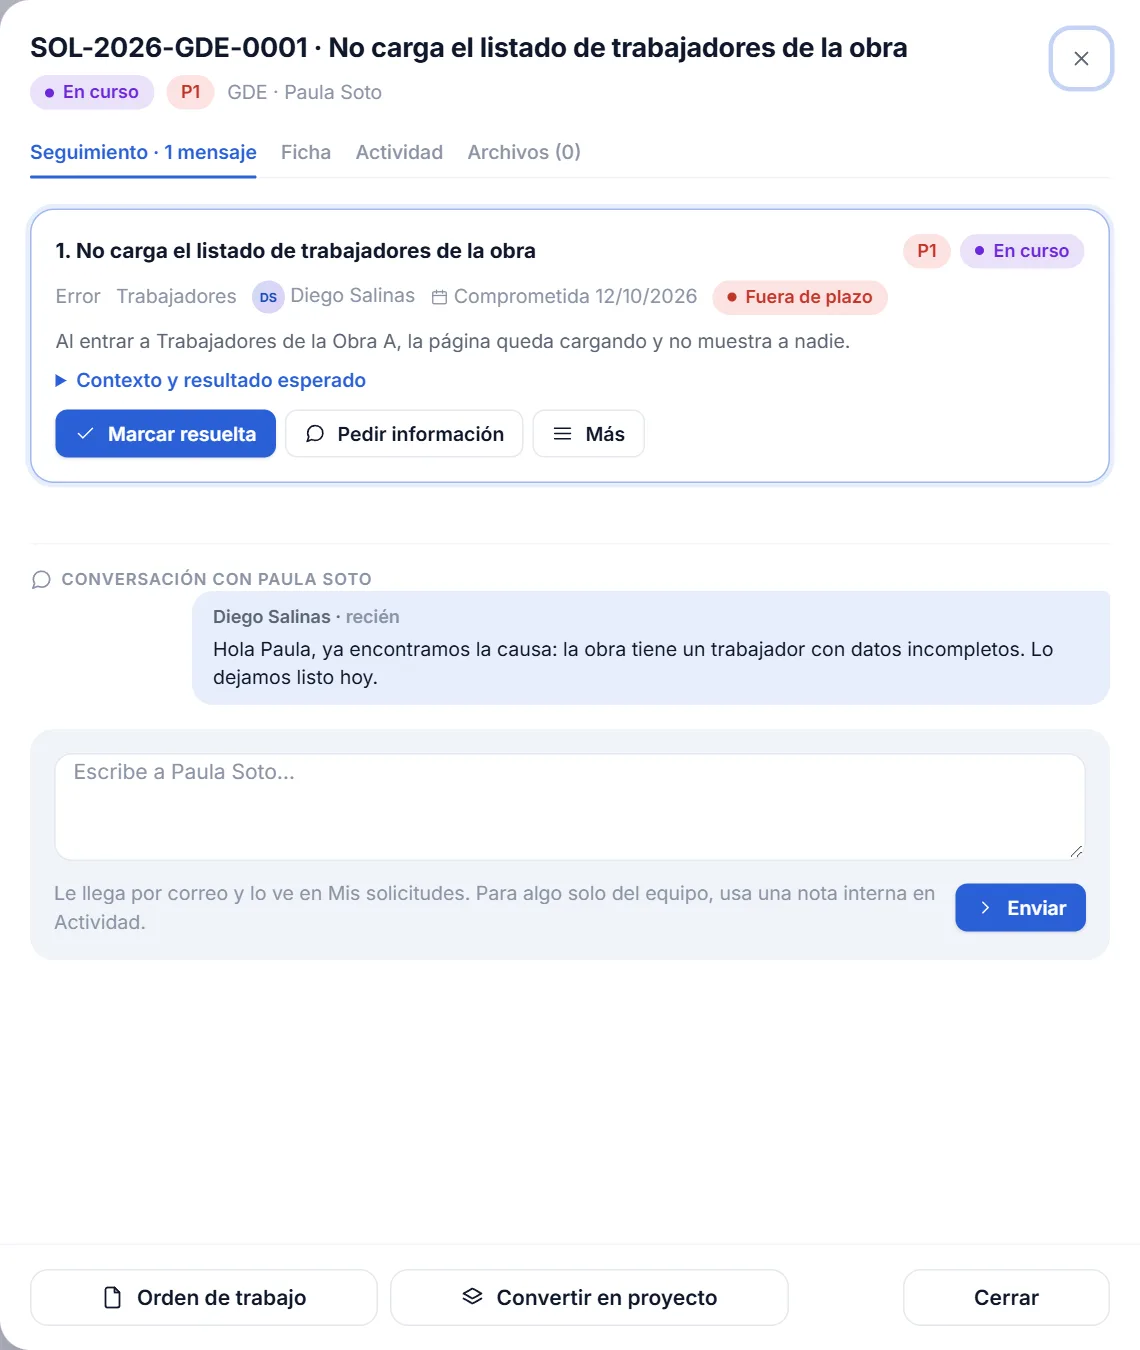
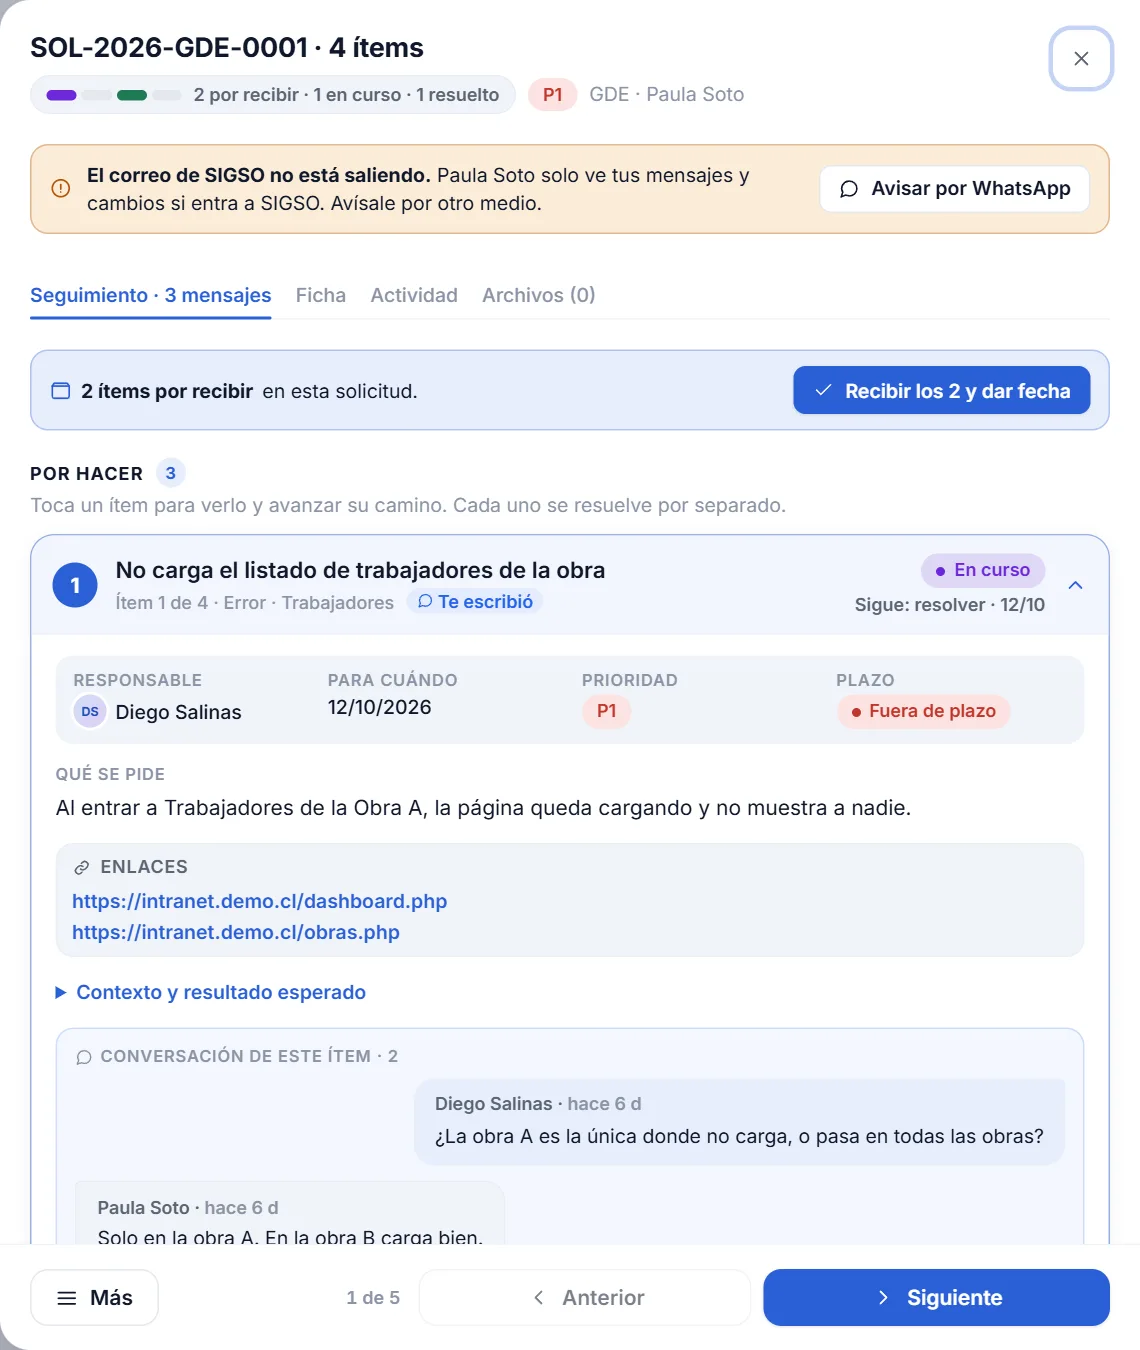
docs(manuales): Bandeja y Mis solicitudes con la tabla por solicitud, el panel por ítem y Siguiente
Capturas nuevas de la empresa demo (tabla desplegada, solicitud abierta,
conversación y camino del ítem, Mis solicitudes con varios ítems).

diff --git a/frontend/manuales/solicitudes.js b/frontend/manuales/solicitudes.js
@@ -77,7 +77,12 @@
             consejo: ['Mejor que un enlace de Drive: el equipo lo abre sin tener que pedirte acceso.'] },
           { titulo: 'Abre una solicitud', img: 'detalle',
             texto: ['Toca una solicitud. Se abre a la derecha con todo su detalle.'],
-            marcas: [{ n: 1, t: 'Los pasos: nueva, en curso, resuelta y cerrada; resaltado, dónde va.' }, { n: 2, t: 'Ítems, conversación con el equipo, historial y archivos.' }, { n: 3, t: 'Quién te atiende, de qué área y servicio, y la fecha comprometida.' }, { n: 4, t: '[[Corregir]] (mientras nadie la empiece) y [[Ya se resolvió por fuera]].' }] }
+            marcas: [{ n: 1, t: 'Los pasos: nueva, en curso, resuelta y cerrada; resaltado, dónde va.' }, { n: 2, t: 'Ítems, conversación con el equipo, historial y archivos.' }, { n: 3, t: 'Quién te atiende, de qué área y servicio, y la fecha comprometida.' }, { n: 4, t: '[[Corregir]] (mientras nadie la empiece) y [[Ya se resolvió por fuera]].' }] },
+          { titulo: 'Una solicitud con varios ítems', img: 'varios',
+            texto: ['Si pediste varias cosas juntas, cada una es un **ítem** y avanza por su cuenta. Arriba ves en qué va cada uno ((1)).',
+              'Los ítems se ordenan en **Esperan tu respuesta** ((2)) —confirma lo resuelto o responde lo que te preguntaron ((3))—, **En curso** y **Cerrados**. Toca un ítem para desplegarlo o plegarlo.',
+              'Cada ítem tiene su conversación ((4)): lo que escribes ahí le llega al equipo junto a ese ítem.'],
+            marcas: [{ n: 1, t: 'En qué va cada ítem.' }, { n: 2, t: 'Lo que espera tu respuesta.' }, { n: 3, t: 'Confirmar, o decir qué falta.' }, { n: 4, t: 'La conversación de ese ítem.' }] }
         ] },
       { id: 'responder', titulo: 'Responde cuando el equipo te pregunta', ruta: '#/mis_solicitudes',
         intro: ['Si el equipo necesita algo de ti, la solicitud queda **Esperando tu respuesta**: no avanza hasta que respondas.'],
@@ -101,46 +106,53 @@
       'En los ejemplos atienden Diego Salinas (Desarrollo) y Tomás Fuentes (Contabilidad), personas de demostración.'],
     capitulos: [
       { id: 'ver', titulo: 'Lee tu bandeja', ruta: '#/bandeja',
-        intro: ['La Bandeja muestra lo asignado a ti y lo que está en curso sin responsable.'],
+        intro: ['La Bandeja muestra lo asignado a ti y lo que está en curso sin responsable, **una fila por solicitud**.'],
         pasos: [
           { titulo: 'La pantalla de la Bandeja', img: 'inicio',
             texto: ['Abre **Bandeja** en la barra.'],
-            marcas: [{ n: 1, t: '**Cola** (lo que atiendes) o **Análisis** (los números de la bandeja).' }, { n: 2, t: 'Los filtros rápidos: abiertos, nuevos, fuera de plazo, sin fecha comprometida, sin asignar y por validar. Toca uno para ver solo eso.' },
-              { n: 3, t: 'Buscar y filtrar por empresa, prioridad y orden.' }, { n: 4, t: 'Cómo verla: tabla, lista o por estado (tablero).' }, { n: 5, t: 'Cada ítem: plazo, número, pedido, quién pide, responsable, estado y antigüedad.' }] },
-          { titulo: 'Una fila por solicitud',
-            texto: ['La tabla muestra **una fila por solicitud**, con su número completo y quién pidió. Si la solicitud tiene varios ítems (cosas distintas pedidas juntas), bajo el número dice cuántos son («4 ítems») y la columna **Avance** tiene un tramo por ítem: el color dice en qué paso va cada uno.',
-              'Toca la flecha de la izquierda para ver sus ítems (**Ítem 1 de 4**, **Ítem 2 de 4**…), cada uno con su camino. Toca la fila para abrir la solicitud completa.',
-              'La columna **Sigue** dice qué falta: [[Recibir]] (con cuántos ítems nuevos), «Dar fecha», «Empezar», «Resolver», «Esperando respuesta» o «Espera confirmación».'] },
-          { titulo: 'El camino de cada ítem',
-            texto: ['Al abrir una solicitud con varios ítems, aparecen en dos grupos: **Por hacer** (toca uno para desplegarlo; arriba de cada uno dice su estado y lo que sigue) y **Terminados** (atenuados y con un check: ya no necesitan trabajo). Cuando resuelves un ítem, baja solo a Terminados y se abre el siguiente.',
-              'Cada ítem recorre cinco pasos, a su ritmo y con su propia fecha: **Recibido → Con fecha → En curso → Resuelto → Confirmado** (por quien pidió). En la ficha del ítem el camino se ve arriba de los botones, y el botón azul es siempre el paso que sigue.',
-              [ '[[Recibir y dar fecha]]: lo recibes y dices para cuándo estará. A quien pidió le llega un solo aviso con la fecha. Si nadie lo tenía, queda a tu nombre.',
-                'Con varios ítems nuevos en la misma solicitud, [[Recibir los N y dar fecha]] los recibe todos de una vez (una fecha por ítem, un solo aviso).',
-                '[[Empezar]], después [[Marcar resuelta]]. Si te falta un dato, [[Pedir información]] deja el ítem en pausa hasta que respondan.' ]],
-            consejo: ['Si marcas resuelto un ítem que no habías recibido o que no tenía fecha, SIGSO lo completa solo («recibido y resuelto el mismo día», con fecha de hoy) y lo anota en el historial: el camino nunca queda con huecos.'] },
+            marcas: [{ n: 1, t: '**Cola** (lo que atiendes) o **Análisis** (los números de la bandeja).' }, { n: 2, t: 'Los filtros rápidos: abiertas, nuevas, fuera de plazo, sin fecha, sin asignar y por validar. Cuentan **solicitudes**, como la tabla. Toca uno para ver solo eso.' },
+              { n: 3, t: 'Buscar y filtrar por empresa, prioridad y orden.' }, { n: 4, t: 'Cómo verla: tabla, lista o por estado (tablero).' }, { n: 5, t: 'Cada solicitud: plazo, número, pedido, quién pide, responsable, avance y antigüedad.' },
+              { n: 6, t: '**Sigue**: el botón con el paso que toca. Te lleva directo a ese ítem con el formulario listo.' }],
+            consejo: ['Si tienes ítems ya recibidos sin fecha, arriba de la tabla aparece «N ítems tuyos sin fecha»: tócalo para verlos.'] },
+          { titulo: 'Una solicitud con varios ítems', img: 'tabla',
+            texto: ['Si alguien pidió varias cosas juntas, bajo el número dice cuántos ítems son ((1)). Toca la flecha de la izquierda para desplegarlos: cuelgan de la solicitud con una línea, cada uno como **Ítem 1 de 4**, **Ítem 2 de 4**… ((2)).',
+              'La columna **Avance** ((3)) tiene un tramo por ítem (el color dice en qué paso va cada uno) y cuántos están listos. **Sigue** ((4)) dice qué toca ahora: [[Recibir]] (con cuántos ítems nuevos), [[Dar fecha]], [[Empezar]] o [[Resolver]]. Si toca esperar a otro, aparece en gris («Espera respuesta», «Por confirmar»).'],
+            marcas: [{ n: 1, t: 'El número de la solicitud y cuántos ítems tiene.' }, { n: 2, t: 'Cada ítem, colgando de su solicitud.' }, { n: 3, t: 'El avance: un tramo por ítem.' }, { n: 4, t: 'Lo que sigue.' }] },
           { titulo: 'Lo resuelto sale de tu lista',
             texto: ['Cuando marcas un ítem como resuelto, deja de aparecer en tu lista de trabajo (y en **Por estado** ya no hay columna «Resuelta»): ahora le toca a quien pidió confirmar. Si no responde en 5 días hábiles, se cierra solo.',
-              'Para ver lo que espera esa confirmación, toca **Por validar** en los filtros de arriba.'] },
+              'Para ver lo que espera esa confirmación, toca **Por validar** en los filtros de arriba. En **Por estado**, los ítems de una misma solicitud que están en la misma columna van juntos en una tarjeta.'] },
           { titulo: 'La cola de tu departamento', img: 'cola',
             texto: ['Si eres de un departamento, arriba aparecen **Mi bandeja** y la **cola de tu área** ((1)), con cuántos pedidos tiene y cuántos están sin asignar.', [ 'Toca la cola del área para ver todos sus pedidos. En los que están sin asignar aparece [[Tomar]]: queda a tu nombre.', 'En un pedido nuevo a tu nombre, toca [[Recibir]] ((2)): quien pidió recibe el aviso de que ya lo tienes.' ]],
             marcas: [{ n: 1, t: 'Tu bandeja y la cola de tu área (con los sin asignar).' }, { n: 2, t: '[[Recibir]]: avisar que ya lo tienes.' }, { n: 3, t: '**Reportes**: cómo le va al área con sus pedidos.' }],
             consejo: ['La jefatura del área puede repartir los pedidos; el resto toma los que estén sin asignar.'] }
         ] },
-      { id: 'atender', titulo: 'Atiende un ítem', ruta: '#/bandeja',
-        intro: ['Al tocar un ítem se abre su ficha a la derecha, con todo lo necesario para atenderlo sin salir de la Bandeja.'],
+      { id: 'atender', titulo: 'Atiende una solicitud', ruta: '#/bandeja',
+        intro: ['Al tocar una solicitud se abre a la derecha con todo lo necesario para atenderla sin salir de la Bandeja.'],
         pasos: [
-          { titulo: 'La ficha del ítem', img: 'detalle',
-            texto: ['Toca el título de un ítem.'],
-            marcas: [{ n: 1, t: 'Número, título, estado, prioridad y quién lo pidió.' }, { n: 2, t: '**Seguimiento** (conversación), **Ficha**, **Actividad** (historial y notas internas) y **Archivos**.' },
-              { n: 3, t: 'Responsable, fecha comprometida y si está fuera de plazo.' }, { n: 4, t: 'Lo que puedes hacer: [[Marcar resuelta]], [[Pedir información]] y más opciones.' }, { n: 5, t: 'La conversación con quien pidió: lo que escribes le llega por correo.' }] },
-          { titulo: 'Conversa con quien pidió', texto: ['En **Seguimiento**, escribe en el cuadro y toca [[Enviar]]: le llega por correo y lo ve en Mis solicitudes. Para algo solo del equipo, usa una **nota interna** en **Actividad**: quien pidió no la ve.'] },
-          { titulo: 'Pide información si te falta algo', texto: ['Toca [[Pedir información]] y escribe la pregunta. La solicitud queda **Esperando respuesta** (el plazo se detiene) y vuelve a ti cuando quien pidió responde.'] },
+          { titulo: 'La solicitud abierta', img: 'detalle',
+            texto: ['Toca una fila de la tabla.'],
+            marcas: [{ n: 1, t: 'En qué va: un tramo por ítem y en palabras («2 por recibir · 1 en curso · 1 resuelto»).' }, { n: 2, t: 'Si hay varios ítems nuevos, [[Recibir los N y dar fecha]] los recibe todos de una vez (una fecha por ítem, un solo aviso). Si hay varios recibidos sin fecha, aparece [[Dar fecha a los N]].' },
+              { n: 3, t: '**Por hacer**: los ítems que necesitan trabajo. Más abajo, **Terminados** (atenuados y con un check): ya no necesitan trabajo.' }, { n: 4, t: 'Cada ítem en una línea: su estado y lo que sigue, con la fecha. Tócalo para desplegarlo o plegarlo.' },
+              { n: 5, t: 'El ítem desplegado: responsable, para cuándo, prioridad y plazo; después lo que se pide y sus enlaces.' }] },
+          { titulo: 'Conversa y avanza el camino', img: 'camino',
+            texto: ['Cada ítem tiene su **conversación** ((1)): lo que escribes ahí queda con ese ítem, y la respuesta de quien pidió también. Abajo de todo queda la conversación general de la solicitud.',
+              'Cada ítem recorre cinco pasos ((2)), a su ritmo y con su propia fecha: **Recibido → Con fecha → En curso → Resuelto → Confirmado** (por quien pidió). El botón azul ((3)) es siempre el paso que sigue:',
+              [ '[[Recibir y dar fecha]]: lo recibes y dices para cuándo estará. A quien pidió le llega un solo aviso con la fecha. Si nadie lo tenía, queda a tu nombre.',
+                '[[Empezar]], después [[Marcar resuelta]]. Si te falta un dato, [[Pedir información]] deja el ítem en pausa hasta que respondan.',
+                'Si quien pidió te escribió, aparece [[Responder]] y en la línea del ítem dice «Te escribió».' ],
+              'Cuando resuelves un ítem, baja solo a **Terminados** y se abre el siguiente por hacer. Con [[Siguiente]] ((4)) pasas a la próxima solicitud de tu bandeja sin cerrar el panel.'],
+            marcas: [{ n: 1, t: 'La conversación de este ítem.' }, { n: 2, t: 'El camino del ítem.' }, { n: 3, t: 'El paso que sigue (y más opciones en **Más**).' }, { n: 4, t: '[[Anterior]] / [[Siguiente]]: recorre tu bandeja sin salir.' }],
+            consejo: ['Si marcas resuelto un ítem que no habías recibido o que no tenía fecha, SIGSO lo completa solo («recibido y resuelto el mismo día», con fecha de hoy) y lo anota en el historial: el camino nunca queda con huecos.'] },
+          { titulo: 'Notas internas', texto: ['Para algo solo del equipo, usa una **nota interna** en **Actividad**: quien pidió no la ve.'] },
+          { titulo: 'Pide información si te falta algo', texto: ['Toca [[Pedir información]] y escribe la pregunta. El ítem queda **Esperando respuesta** (el plazo se detiene) y vuelve a ti cuando quien pidió responde.'] },
           { titulo: 'Si un enlace de Drive te pide acceso',
             texto: ['Los enlaces del ítem aparecen en **Enlaces**, y los de Drive van marcados. Un enlace de Drive solo se abre si quien pidió lo compartió contigo.',
-              'Si te pide acceso, toca [[Pedir el archivo]]: queda escrito en la conversación un mensaje que le pide subir el archivo a SIGSO. Revísalo y toca [[Enviar]].'],
+              'Si te pide acceso, toca [[Pedir el archivo]]: queda escrito en la conversación del ítem un mensaje que le pide subir el archivo a SIGSO. Revísalo y toca [[Enviar]].'],
             consejo: ['Quien pidió puede subir archivos en cualquier momento desde **Mis solicitudes**, en la conversación (**Adjuntar archivos**). Además, al pegar un enlace de Drive en una solicitud nueva, SIGSO le recomienda subir el archivo.'] },
+          { titulo: 'Si el correo no está saliendo',
+            texto: ['Si los correos de SIGSO están fallando, la solicitud abierta lo avisa arriba: quien pidió solo ve tus mensajes si entra a SIGSO. Toca [[Avisar por WhatsApp]]: se abre WhatsApp con el mensaje listo y eliges a quién mandarlo.'] },
           { titulo: 'Marca resuelto', texto: ['Cuando termines, toca [[Marcar resuelta]] y cuenta qué se hizo. Quien pidió lo confirma desde Mis solicitudes; si no lo hace en 5 días hábiles, se cierra solo.'],
-            consejo: ['Desde la ficha también puedes generar la **Orden de trabajo** o **Convertir en proyecto** un pedido grande.'] }
+            consejo: ['En **Más**, abajo a la izquierda, puedes generar la **Orden de trabajo** o **Convertir en proyecto** un pedido grande.'] }
         ] },
       { id: 'analisis', titulo: 'Mira los números de la Bandeja', ruta: '#/bandeja',
         intro: ['**Análisis** muestra cómo está la bandeja en gráficos: por estado, antigüedad, responsable y prioridad.'],

diff --git a/frontend/manuales/img/bandeja/marcas.js b/frontend/manuales/img/bandeja/marcas.js
@@ -1,2 +1,2 @@
 /* Señales de las capturas (capturar.js, empresa de demostración). */
-SigsoManual.marcas("bandeja", {"inicio":{"w":1626,"h":840,"marcas":[{"n":1,"forma":"caja","x":72.1,"y":10.8,"w":25.3,"h":8.2},{"n":2,"forma":"caja","x":2.6,"y":19.8,"w":94.9,"h":8},{"n":3,"forma":"caja","x":2.6,"y":28.6,"w":94.7,"h":11},{"n":4,"forma":"caja","x":72.1,"y":10.8,"w":16.8,"h":8.2},{"n":5,"forma":"caja","x":2.6,"y":51.2,"w":94.7,"h":9.3}]},"cola":{"w":1626,"h":597,"marcas":[{"n":1,"forma":"caja","x":2.6,"y":21,"w":32.7,"h":9.3},{"n":2,"forma":"caja","x":90,"y":77.2,"w":7.2,"h":10.1},{"n":3,"forma":"caja","x":78.6,"y":19.5,"w":10.1,"h":10.1}]},"detalle":{"w":1140,"h":1350,"marcas":[{"n":1,"forma":"caja","x":2.1,"y":1.8,"w":78.1,"h":6.8},{"n":2,"forma":"caja","x":2.1,"y":9,"w":95.8,"h":4.7},{"n":3,"forma":"caja","x":2.1,"y":15,"w":95.8,"h":21.3},{"n":4,"forma":"caja","x":4.3,"y":29.7,"w":91.3,"h":4.7},{"n":5,"forma":"caja","x":2.1,"y":43.4,"w":95.8,"h":28.2}]},"analisis":{"w":1626,"h":1350,"marcas":[{"n":1,"forma":"caja","x":2.6,"y":12.3,"w":94.9,"h":19},{"n":2,"forma":"caja","x":2.6,"y":31.8,"w":47.1,"h":43.2}]}});
+SigsoManual.marcas("bandeja", {"inicio":{"w":1656,"h":967,"marcas":[{"n":1,"forma":"caja","x":72.6,"y":9.4,"w":24.9,"h":7.1},{"n":2,"forma":"caja","x":2.5,"y":17.2,"w":95,"h":6.9},{"n":3,"forma":"caja","x":2.6,"y":24.8,"w":94.8,"h":9.6},{"n":4,"forma":"caja","x":72.6,"y":9.4,"w":16.5,"h":7.1},{"n":5,"forma":"caja","x":2.6,"y":44.5,"w":94.8,"h":11.4},{"n":6,"forma":"caja","x":86.1,"y":47.1,"w":10.1,"h":6.2}]},"cola":{"w":1656,"h":716,"marcas":[{"n":1,"forma":"caja","x":2.5,"y":17.5,"w":32.1,"h":7.8},{"n":2,"forma":"caja","x":87.1,"y":66.5,"w":9,"h":8.4},{"n":3,"forma":"caja","x":79,"y":16.3,"w":9.9,"h":8.4}]},"detalle":{"w":1140,"h":1350,"marcas":[{"n":1,"forma":"caja","x":2.1,"y":5.1,"w":43.7,"h":3.7},{"n":2,"forma":"caja","x":2.1,"y":25.5,"w":95.8,"h":6.9},{"n":3,"forma":"caja","x":2.1,"y":33.5,"w":95.8,"h":5.4},{"n":4,"forma":"caja","x":2.2,"y":39.3,"w":95.5,"h":8.2},{"n":5,"forma":"caja","x":4.3,"y":48.1,"w":91.3,"h":7.4}]},"analisis":{"w":1656,"h":1350,"marcas":[{"n":1,"forma":"caja","x":2.5,"y":12.3,"w":95,"h":17.2},{"n":2,"forma":"caja","x":2.5,"y":30,"w":47.1,"h":43.2}]},"tabla":{"w":1656,"h":930,"marcas":[{"n":1,"forma":"caja","x":8.6,"y":46.2,"w":14.9,"h":11.9},{"n":2,"forma":"caja","x":12.4,"y":58.2,"w":7.5,"h":4.6},{"n":3,"forma":"caja","x":67.3,"y":46.2,"w":12,"h":11.9},{"n":4,"forma":"caja","x":86.1,"y":48.9,"w":10.1,"h":6.5}]},"camino":{"w":1140,"h":1350,"marcas":[{"n":1,"forma":"caja","x":4.3,"y":12.5,"w":91.3,"h":25.5},{"n":2,"forma":"caja","x":4.3,"y":42.9,"w":91.3,"h":5.4},{"n":3,"forma":"caja","x":4.3,"y":48.5,"w":91.3,"h":4.7},{"n":4,"forma":"caja","x":36.2,"y":93.6,"w":30.3,"h":5.1}]}});

diff --git a/frontend/manuales/img/mis-solicitudes/marcas.js b/frontend/manuales/img/mis-solicitudes/marcas.js
@@ -1,2 +1,2 @@
 /* Señales de las capturas (capturar.js, empresa de demostración). */
-SigsoManual.marcas("mis-solicitudes", {"inicio":{"w":1626,"h":1350,"marcas":[{"n":1,"forma":"caja","x":2.6,"y":14.1,"w":94.9,"h":15.4},{"n":2,"forma":"caja","x":2.6,"y":30.8,"w":94.9,"h":42.3},{"n":3,"forma":"caja","x":2.6,"y":74.5,"w":94.9,"h":9.6},{"n":4,"forma":"caja","x":81.7,"y":2.2,"w":15.7,"h":5.1}]},"detalle":{"w":1140,"h":1350,"marcas":[{"n":1,"forma":"caja","x":2.1,"y":9.9,"w":95.8,"h":4.2},{"n":2,"forma":"caja","x":2.1,"y":19,"w":95.8,"h":4.7},{"n":3,"forma":"caja","x":2.1,"y":24.9,"w":95.8,"h":21.2},{"n":4,"forma":"caja","x":4.3,"y":39.9,"w":91.3,"h":4.3}]},"responder":{"w":1140,"h":1350,"marcas":[{"n":1,"forma":"caja","x":6.6,"y":48.2,"w":86.8,"h":3},{"n":2,"forma":"caja","x":6.6,"y":54.6,"w":86.8,"h":10.2},{"n":3,"forma":"caja","x":72.2,"y":66.3,"w":21.2,"h":4.4},{"n":4,"forma":"caja","x":4.3,"y":72.6,"w":26.4,"h":4.3}]},"validar":{"w":1140,"h":1350,"marcas":[{"n":1,"forma":"caja","x":2.1,"y":31.3,"w":95.8,"h":31.1},{"n":2,"forma":"caja","x":70.8,"y":54.2,"w":22.6,"h":4.4},{"n":3,"forma":"caja","x":51.4,"y":54.2,"w":19.7,"h":4.4}]}});
+SigsoManual.marcas("mis-solicitudes", {"inicio":{"w":1626,"h":1350,"marcas":[{"n":1,"forma":"caja","x":2.6,"y":14.1,"w":94.9,"h":15.4},{"n":2,"forma":"caja","x":2.6,"y":30.8,"w":94.9,"h":42.3},{"n":3,"forma":"caja","x":2.6,"y":74.5,"w":94.9,"h":9.6},{"n":4,"forma":"caja","x":81.7,"y":2.2,"w":15.7,"h":5.1}]},"detalle":{"w":1140,"h":1350,"marcas":[{"n":1,"forma":"caja","x":2.1,"y":9.9,"w":95.8,"h":4.2},{"n":2,"forma":"caja","x":2.1,"y":19,"w":95.8,"h":4.7},{"n":3,"forma":"caja","x":2.1,"y":24.9,"w":95.8,"h":21.2},{"n":4,"forma":"caja","x":4.3,"y":39.9,"w":91.3,"h":4.3}]},"responder":{"w":1140,"h":1350,"marcas":[{"n":1,"forma":"caja","x":6.6,"y":48.2,"w":86.8,"h":3},{"n":2,"forma":"caja","x":6.6,"y":54.6,"w":86.8,"h":10.2},{"n":3,"forma":"caja","x":72.2,"y":66.3,"w":21.2,"h":4.4},{"n":4,"forma":"caja","x":4.3,"y":72.6,"w":26.4,"h":4.3}]},"validar":{"w":1140,"h":1350,"marcas":[{"n":1,"forma":"caja","x":2.1,"y":31.3,"w":95.8,"h":31.1},{"n":2,"forma":"caja","x":70.8,"y":54.2,"w":22.6,"h":4.4},{"n":3,"forma":"caja","x":51.4,"y":54.2,"w":19.7,"h":4.4}]},"varios":{"w":1140,"h":1350,"marcas":[{"n":1,"forma":"caja","x":18.9,"y":5.1,"w":42.4,"h":3.7},{"n":2,"forma":"caja","x":2.1,"y":26.1,"w":95.8,"h":5.4},{"n":3,"forma":"caja","x":4.3,"y":55.8,"w":91.3,"h":12.1},{"n":4,"forma":"caja","x":4.3,"y":68.5,"w":91.3,"h":10.6}]}});

diff --git a/frontend/manuales/indice.js b/frontend/manuales/indice.js
@@ -32,4 +32,4 @@ SigsoManual.indice([
     resumen: 'Recibir los reportes de las áreas y armar el informe de gestión para la gerencia.' },
   { id: 'hompy', archivo: 'hompy', grupo: 'Áreas', titulo: 'Hompy, la mascota', icono: 'hompy', color: 'var(--mod-hompy)', modulos: ['hompy'],
     resumen: 'Calendario, reporte de salida a terreno con su dinero, Estudio TikTok, marcas colaboradoras y reporte del mes.' }
-], '2026-10-07e');
+], '2026-10-07f');
